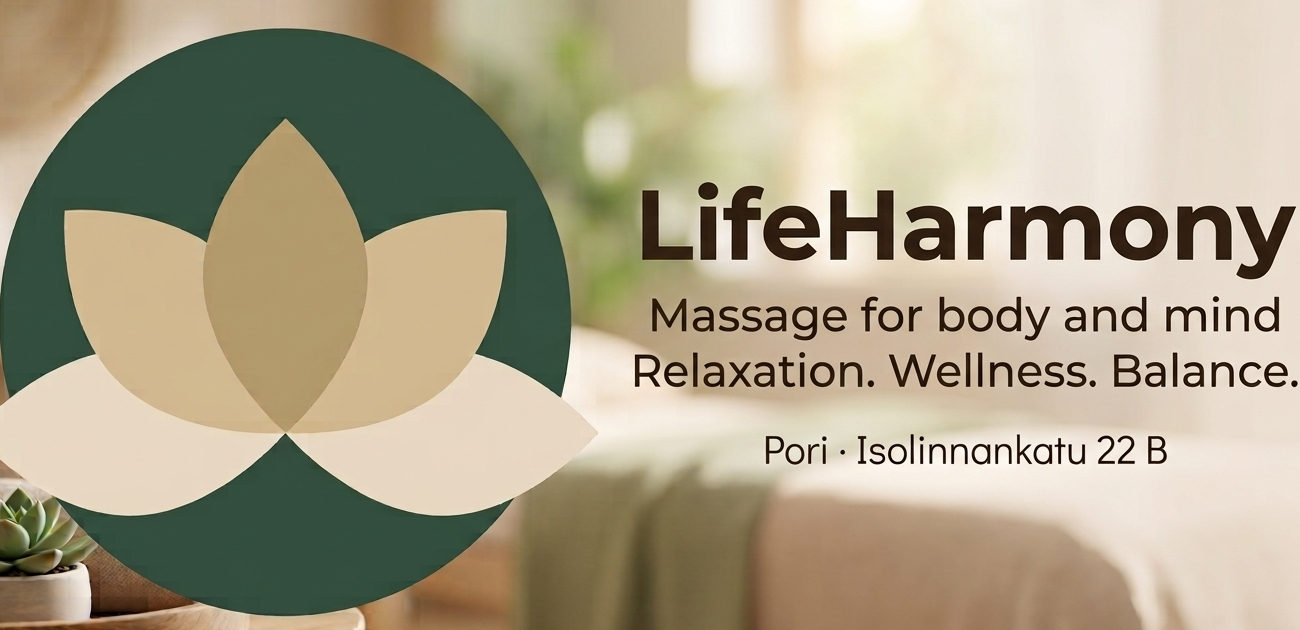
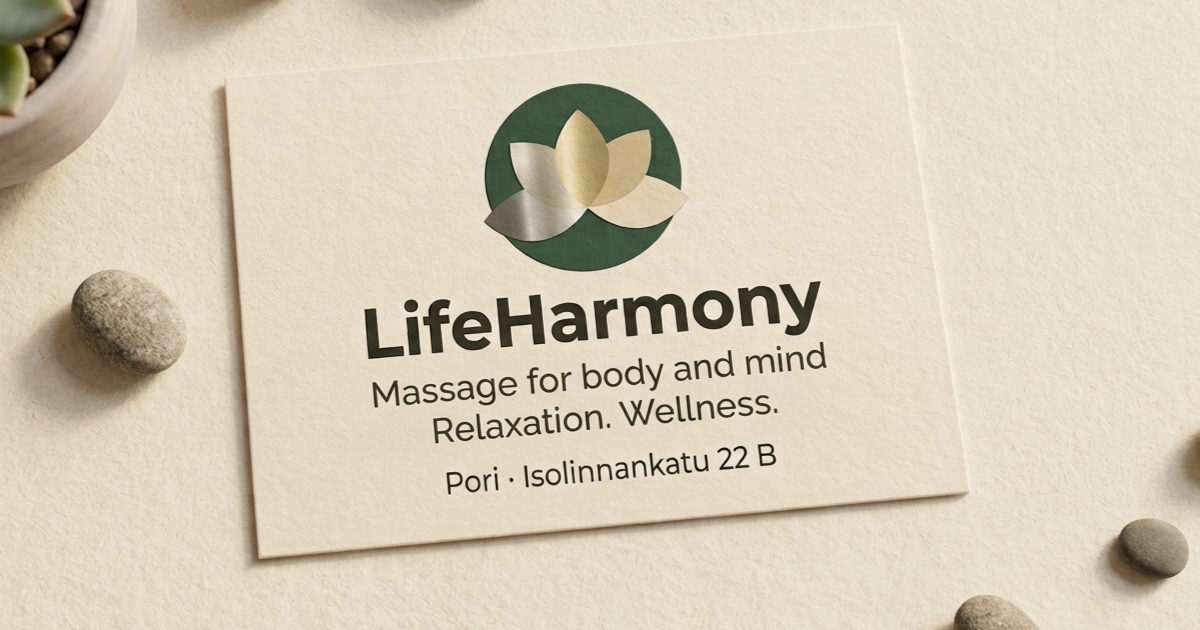
client fixes

diff --git a/src/lib/translations.ts b/src/lib/translations.ts
@@ -16,7 +16,7 @@ export const translations = {
     hero: {
       title: 'LifeHarmony',
       tagline: 'Hierontaa keholle ja mielelle',
-      subtitle: 'Rentoutumista. Hyvinvointia. Tasapainoa.',
+      subtitle: 'Rentoutumista. Hyvinvointia.',
       cta: 'VARAA AIKA',
       ctaWhatsapp: 'OTA YHTEYTTÄ WHATSAPPISSA',
       location: 'Pori · Isolinnankatu 22 B',
@@ -142,7 +142,7 @@ export const translations = {
     hero: {
       title: 'LifeHarmony',
       tagline: 'Massage for body and mind',
-      subtitle: 'Relaxation. Wellness. Balance.',
+      subtitle: 'Relaxation. Wellness.',
       cta: 'BOOK NOW',
       ctaWhatsapp: 'CONTACT VIA WHATSAPP',
       location: 'Pori · Isolinnankatu 22 B',
@@ -268,7 +268,7 @@ export const translations = {
     hero: {
       title: 'LifeHarmony',
       tagline: 'Массаж для тела и души',
-      subtitle: 'Расслабление. Благополучие. Баланс.',
+      subtitle: 'Расслабление. Благополучие.',
       cta: 'ЗАПИСАТЬСЯ',
       ctaWhatsapp: 'СВЯЗАТЬСЯ В WHATSAPP',
       location: 'Порви · Isolinnankatu 22 B',
